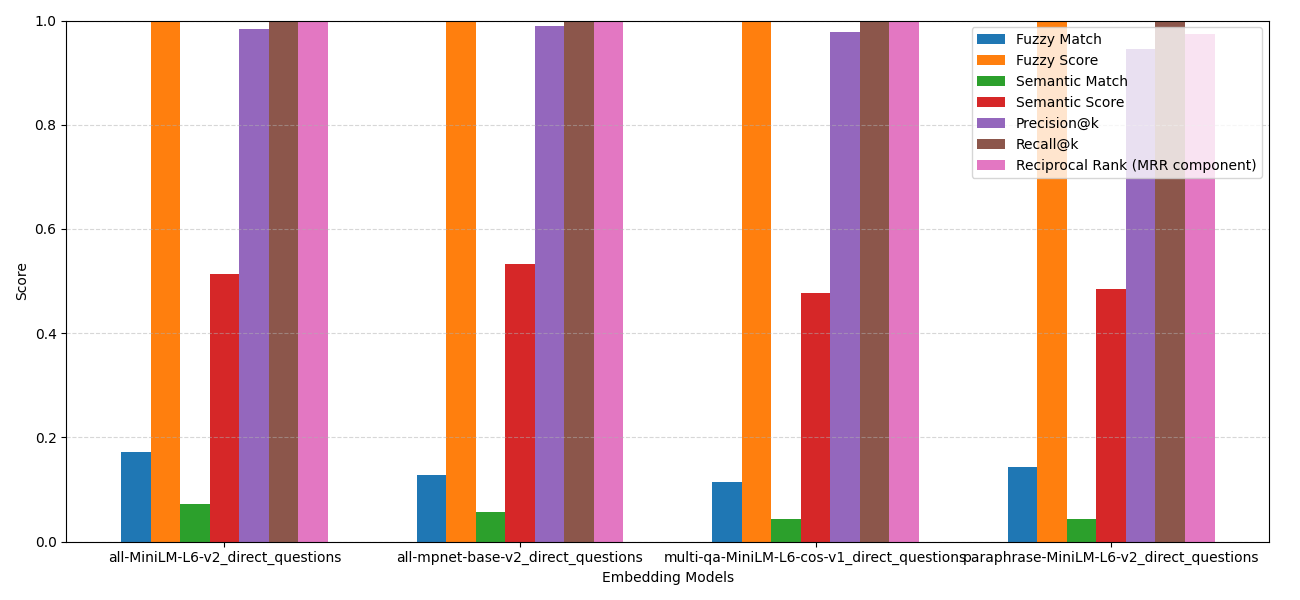
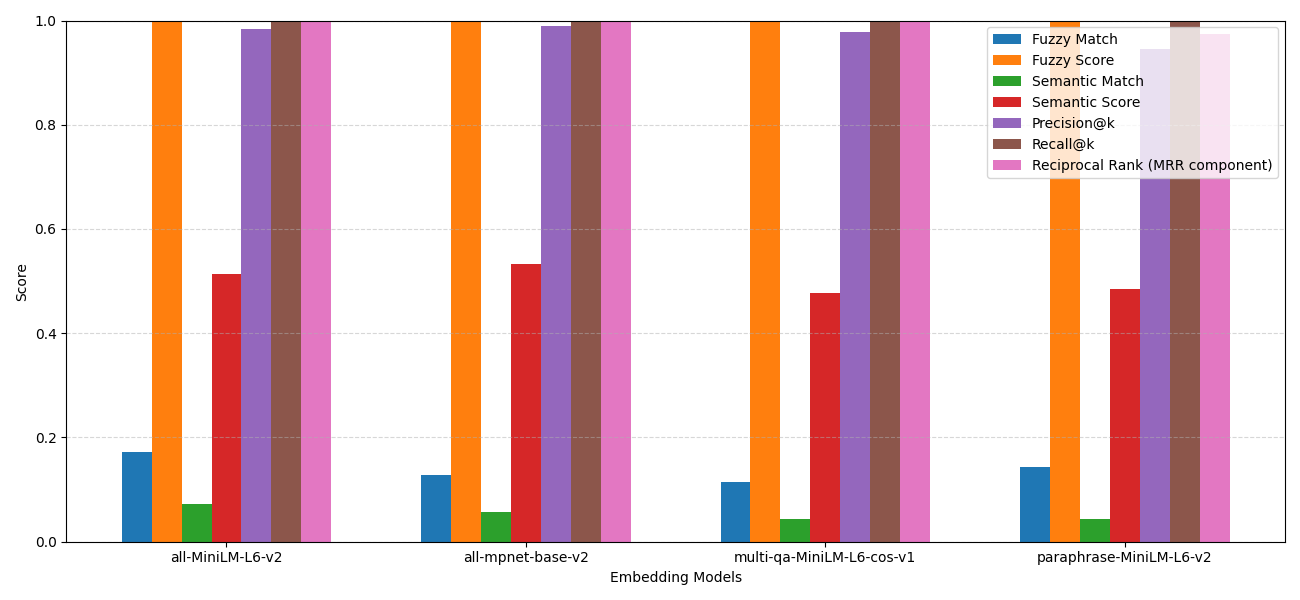
Fix model names in model plots

Changed region(s): [[0.3077, 0.03, 0.9846, 0.99], [0.0923, 0.9, 0.2462, 0.96], [0.0, 0.45, 0.0308, 0.48]]

diff --git a/evaluations/plot_model_comparison.py b/evaluations/plot_model_comparison.py
@@ -3,7 +3,7 @@ import matplotlib.pyplot as plt
 import os
 
 # Path to evaluation files
-eval_dir = "evaluations//indirect-questions-evaluation"
+eval_dir = "evaluations//direct-questions-evaluation"
 eval_files = [f for f in os.listdir(eval_dir) if f.startswith("Evaluation_") and f.endswith(".xlsx")]
 
 # Define metrics as (base_col, rerank_col)
@@ -25,7 +25,7 @@ rerank_metrics = {label: [] for label in metric_labels}
 
 # Read and process each file
 for file in eval_files:
-    model_name = file.replace("Evaluation_", "").replace(".xlsx", "")
+    model_name = file.replace("Evaluation_", "").replace(".xlsx", "").replace("_direct_questions", "")
     model_names.append(model_name)
 
     file_path = os.path.join(eval_dir, file)
@@ -71,5 +71,5 @@ def plot_model_comparison(metric_dict, title, filename):
     print(f"✅ Saved plot: {output_path}")
 
 # Generate both comparison plots
-plot_model_comparison(base_metrics, "Model Performance Comparison (Without Reranker)", "plot_model_comparison_without_reranker_indirect_questions.png")
-plot_model_comparison(rerank_metrics, "Model Performance Comparison (With Reranker)", "plot_model_comparison_with_reranker_indirect_questions.png")
+plot_model_comparison(base_metrics, "Model Performance Comparison (Without Reranker)", "plot_model_comparison_without_reranker_direct_questions.png")
+plot_model_comparison(rerank_metrics, "Model Performance Comparison (With Reranker)", "plot_model_comparison_with_reranker_direct_questions.png")
